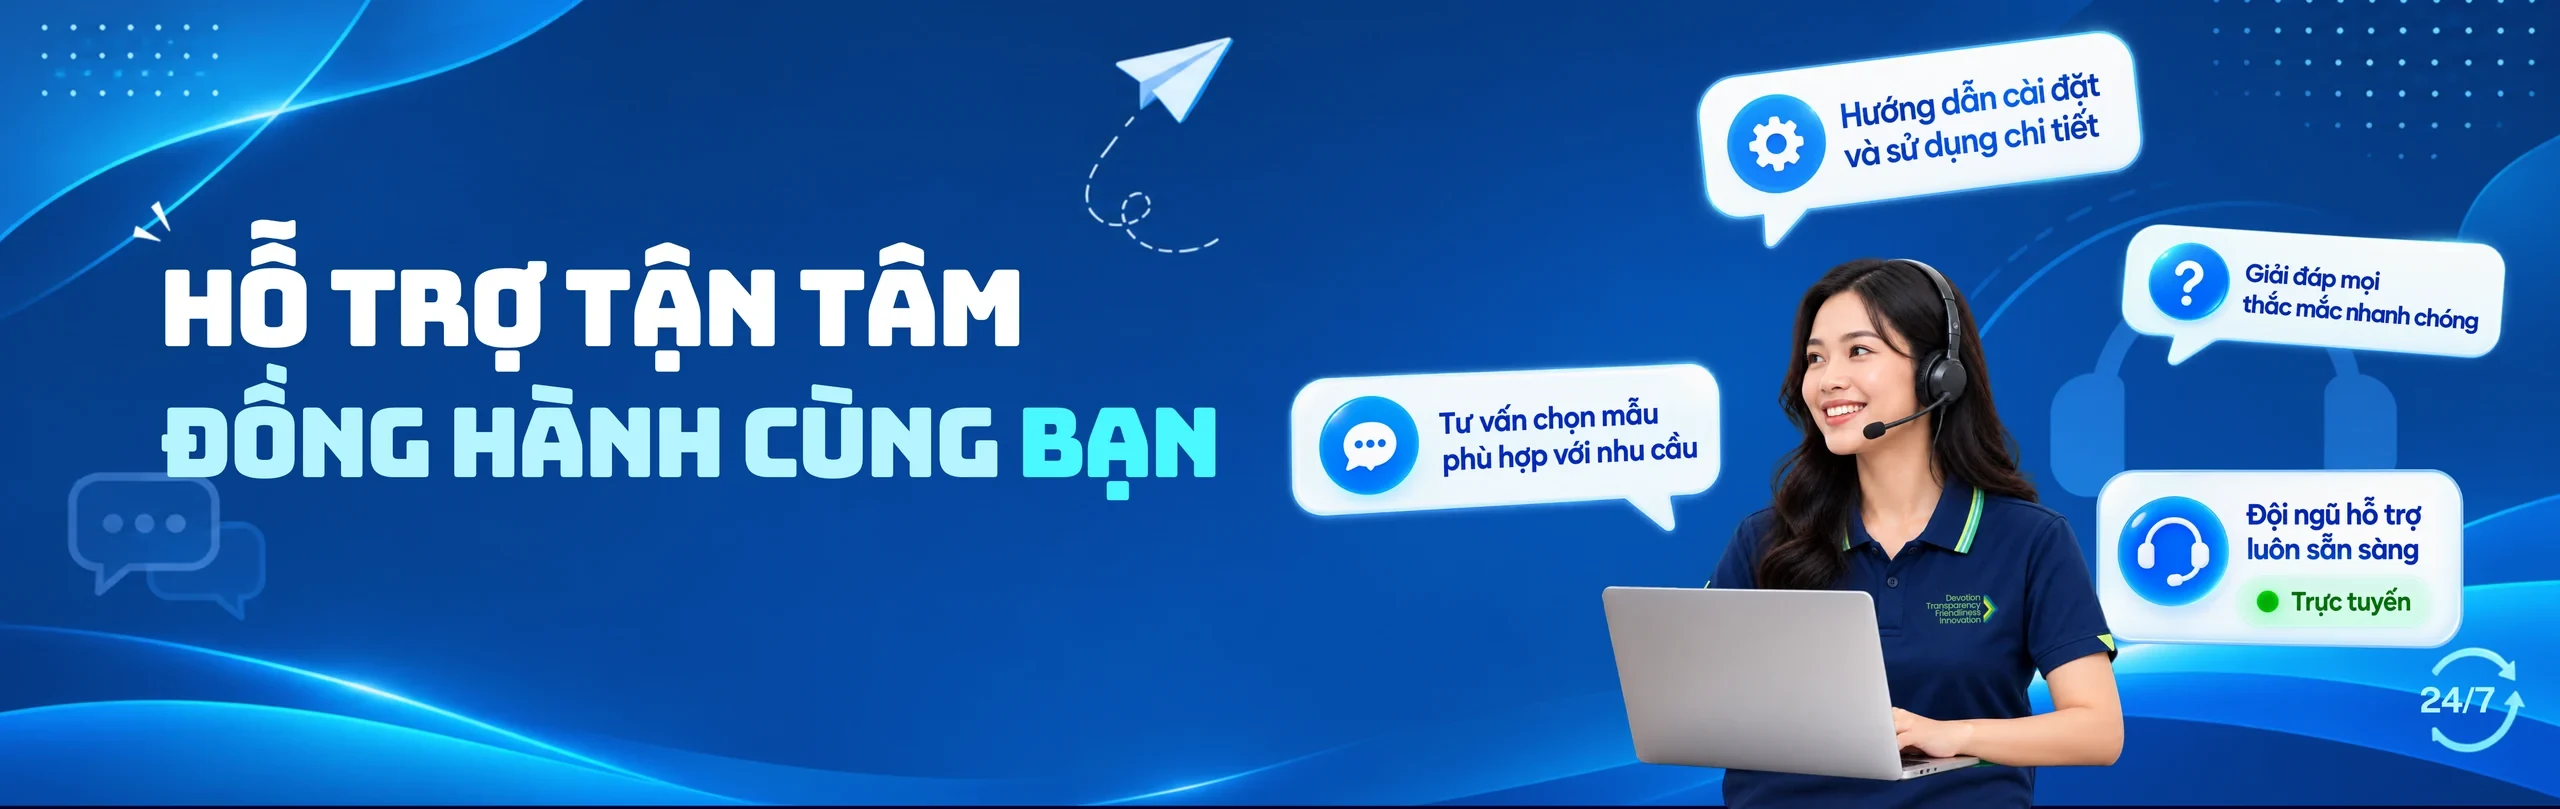
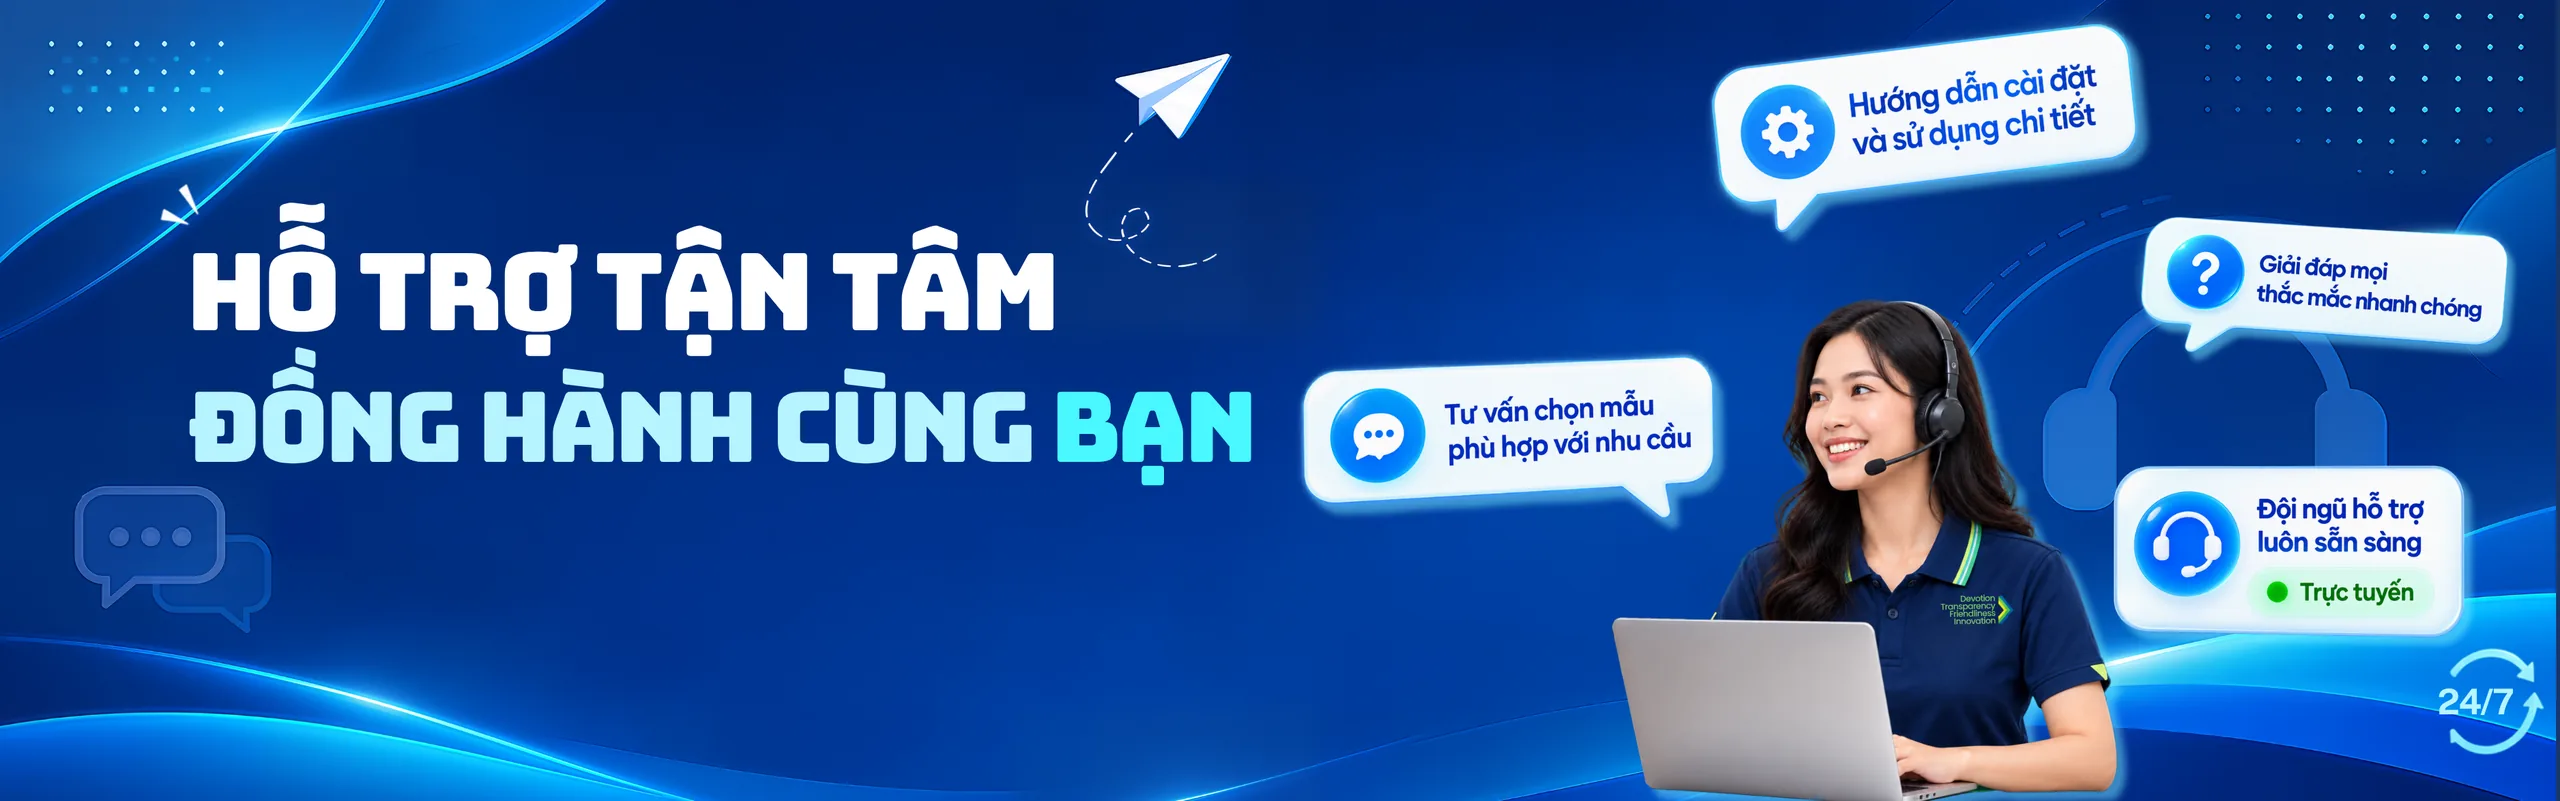
up

diff --git a/src/pages/TrangChu/DanhMucChinh.jsx b/src/pages/TrangChu/DanhMucChinh.jsx
@@ -3,12 +3,20 @@ import { loaiList } from '../../data/danhmuc';
 import mauWeb from '../../data/mauWeb';
 import { moTaDanhMuc } from '../../data/trangChu';
 
+// Số mẫu từng loại + loại nhiều mẫu nhất (gắn nhãn "Phổ biến")
+const soMau = Object.fromEntries(loaiList.map((l) => [l.id, mauWeb.filter((m) => m.loai === l.id).length]));
+const loaiPhoBien = loaiList.reduce((a, b) => (soMau[b.id] > soMau[a.id] ? b : a)).id;
+
 // 3. DANH MỤC WEBSITE
 function DanhMucChinh() {
     return (
-        <section className="py-14 ">
+        <section className="relative overflow-hidden bg-gradient-to-b from-blue-50/80 via-white to-white py-14">
+            {/* Nền: chấm lưới mờ dần + 2 vệt sáng */}
+            <div className="pointer-events-none absolute inset-0 bg-[radial-gradient(#c7d7fe_1px,transparent_1px)] [background-size:22px_22px] [mask-image:linear-gradient(to_bottom,black,transparent_75%)]" />
+            <div className="pointer-events-none absolute -left-24 top-10 h-72 w-72 rounded-full bg-cyan-200/40 blur-3xl" />
+            <div className="pointer-events-none absolute -right-24 top-40 h-80 w-80 rounded-full bg-blue-300/30 blur-3xl" />
 
-            <div className="mx-auto max-w-trang px-4 sm:px-6">
+            <div className="relative mx-auto max-w-trang px-4 sm:px-6">
                 <h2 className="mx-auto w-fit bg-gradient-to-r from-[#0b3393] via-blue-700 to-cyan-500 bg-clip-text pb-1 text-center text-3xl font-extrabold tracking-tight text-transparent sm:text-4xl">
                     Danh mục chính
                 </h2>
@@ -16,44 +24,63 @@ function DanhMucChinh() {
                     Chọn đúng loại website bạn cần, xem danh sách mẫu phù hợp ngay.
                 </p>
 
-
-                <div className="mx-auto mt-10 grid max-w-5xl grid-cols-1 gap-5 sm:grid-cols-2 lg:grid-cols-3">
+                <div className="mx-auto mt-10 grid max-w-5xl grid-cols-1 gap-6 sm:grid-cols-2 lg:grid-cols-3">
                     {loaiList.map((l) => (
+                        <Link
+                            key={l.id}
+                            to={`/mau-website?loai=${l.id}`}
+                            className="group relative flex flex-col rounded-2xl border border-slate-200 bg-white p-2.5 shadow-sm transition duration-300 hover:-translate-y-1.5 hover:border-blue-300 hover:shadow-xl hover:shadow-blue-900/10"
+                        >
+                            {l.id === loaiPhoBien && (
+                                <span className="absolute -right-2 -top-2 z-10 flex items-center gap-1 rounded-full bg-gradient-to-r from-orange-500 to-amber-400 px-2.5 py-1 text-xs font-bold text-white shadow-md">
+                                    🔥 Phổ biến
+                                </span>
+                            )}
 
-                        <div key={l.id} className="group relative">
-                            <Link
-                                to={`/mau-website?loai=${l.id}`}
-                                className="block rounded-2xl border border-slate-200 bg-white p-2.5 text-center shadow-sm transition hover:-translate-y-1 hover:border-blue-200 hover:shadow-lg"
-                            >
+                            {/* Khung trình duyệt: 3 chấm + ô địa chỉ giả */}
+                            <div className="overflow-hidden rounded-xl bg-slate-50 ring-1 ring-slate-200">
+                                <div className="flex items-center gap-1.5 border-b border-slate-200 bg-slate-100 px-3 py-2">
+                                    <span className="h-2.5 w-2.5 rounded-full bg-red-400" />
+                                    <span className="h-2.5 w-2.5 rounded-full bg-amber-400" />
+                                    <span className="h-2.5 w-2.5 rounded-full bg-emerald-400" />
+                                    <span className="ml-2 flex-1 truncate rounded-md bg-white px-2 py-0.5 text-[11px] text-slate-400 ring-1 ring-slate-200">
+                                        {l.id}.vn
+                                    </span>
+                                </div>
 
-                                <div className="overflow-hidden rounded-xl bg-slate-50 ring-1 ring-slate-100">
+                                <div className="relative overflow-hidden">
+                                    {/* Rê chuột: ảnh cuộn chậm từ đầu xuống cuối trang mẫu */}
                                     <img
                                         src={moTaDanhMuc[l.id]?.anh}
                                         alt={l.ten}
                                         loading="lazy"
-                                        className="aspect-[5/4] w-full object-cover object-top transition duration-300 group-hover:scale-105"
+                                        className="aspect-[5/4] w-full object-cover object-top transition-[object-position] duration-[2500ms] ease-in-out group-hover:object-bottom"
                                     />
+                                    {/* Nút "Xem mẫu" trượt lên khi rê chuột */}
+                                    <div className="absolute inset-x-0 bottom-0 flex justify-center bg-gradient-to-t from-slate-900/60 to-transparent pb-4 pt-10 opacity-0 transition duration-300 group-hover:opacity-100">
+                                        <span className="flex translate-y-3 items-center gap-1.5 rounded-full bg-white px-4 py-2 text-sm font-bold text-blue-700 shadow-lg transition duration-300 group-hover:translate-y-0">
+                                            Xem mẫu
+                                            <svg viewBox="0 0 24 24" className="h-4 w-4" fill="none" stroke="currentColor" strokeWidth="2.4" strokeLinecap="round" strokeLinejoin="round">
+                                                <path d="M5 12h14M13 6l6 6-6 6" />
+                                            </svg>
+                                        </span>
+                                    </div>
                                 </div>
-                                <p className="px-3 pb-2 pt-3 text-lg font-bold text-slate-900 sm:text-xl group-hover:text-blue-700">
-                                    {l.ten}
-                                </p>
-
-
-                                <p className="pb-2 text-sm text-slate-400">
-                                    {mauWeb.filter((m) => m.loai === l.id).length} mẫu
-                                </p>
-                            </Link>
-
-
-
-                            {/* Chú thích hiện khi rê chuột */}
-                            <div className="pointer-events-none absolute bottom-full left-1/2 z-20 mb-2 w-60 -translate-x-1/2 rounded-lg bg-slate-900 px-3 py-2 text-left text-xs leading-relaxed text-white opacity-0 shadow-lg transition duration-150 group-hover:opacity-100">
-                                <span className="mb-0.5 block font-semibold text-cyan-300">{l.ten}</span>
-                                {moTaDanhMuc[l.id]?.moTa}
-                                <span className="absolute left-1/2 top-full -translate-x-1/2 border-4 border-transparent border-t-slate-900" />
                             </div>
-                        </div>
 
+                            <div className="flex flex-1 flex-col px-2 pb-1.5 pt-3.5">
+                                <div className="flex items-center justify-between gap-2">
+                                    <p className="text-lg font-bold text-slate-900 transition group-hover:text-blue-700">{l.ten}</p>
+                                    <span className="shrink-0 rounded-full bg-blue-50 px-2.5 py-0.5 text-xs font-semibold text-blue-700 ring-1 ring-blue-100">
+                                        {soMau[l.id]} mẫu
+                                    </span>
+                                </div>
+                                {/* Mô tả: ô nền xanh chuyển cyan có vạch nhấn bên trái, rê chuột thì đậm lên */}
+                                <p className="mt-3 flex-1 rounded-lg border-l-4 border-blue-600 bg-gradient-to-r from-blue-100 to-cyan-50 px-3 py-2 text-sm font-medium leading-relaxed text-blue-950 transition group-hover:from-blue-200 group-hover:to-cyan-100">
+                                    {moTaDanhMuc[l.id]?.moTa}
+                                </p>
+                            </div>
+                        </Link>
                     ))}
                 </div>
 

diff --git a/src/components/sanpham/TheMau.jsx b/src/components/sanpham/TheMau.jsx
@@ -17,6 +17,7 @@ function TheMau({ mau, nho = false }) {
   const { laYeuThich, batTatYeuThich } = useYeuThich();
   const { baoThongBao } = useGioHang();
   const yeuThich = laYeuThich(mau.id);
+  const coDemo = mau.demo && mau.demo !== '#';
   // Sao = điểm có sẵn gộp với đánh giá người dùng (giống trang chi tiết)
   const { danhGiaCuaMau } = useDonHang();
   const danhGia = tongHopDanhGia(mau, danhGiaCuaMau(mau.id));
@@ -35,40 +36,60 @@ function TheMau({ mau, nho = false }) {
         dacBiet ? 'shadow-md shadow-sky-400/30' : 'shadow-sm'
       }`}
     >
-      <Link to={`/mau-website/${mau.id}`} className="relative block overflow-hidden">
-        <img
-          src={mau.anh[0]}
-          alt={mau.ten}
-          loading="lazy"
-          className="aspect-[16/10] w-full object-cover object-top transition duration-300 group-hover:scale-105"
-        />
+      <div className="relative overflow-hidden">
+        <Link to={`/mau-website/${mau.id}`} className="block">
+          <img
+            src={mau.anh[0]}
+            alt={mau.ten}
+            loading="lazy"
+            className="aspect-[16/10] w-full object-cover object-top transition duration-300 group-hover:scale-105"
+          />
 
-        {/* Nhãn góc trái: % giảm, Mới */}
-        {(khuyenMai || laMoi(mau)) && (
-          <div className={`absolute flex gap-1.5 ${nho ? 'left-2 top-2' : 'left-3 top-3'}`}>
-            {khuyenMai && (
-              <span className={`rounded-md bg-red-500 px-2 py-0.5 font-bold text-white shadow ${nho ? 'text-[10px]' : 'text-xs'}`}>
-                -{phanTramGiam(mau)}%
-              </span>
-            )}
-            {laMoi(mau) && (
-              <span className={`rounded-md bg-emerald-500 px-2 py-0.5 font-bold uppercase text-white shadow ${nho ? 'text-[10px]' : 'text-xs'}`}>Mới</span>
-            )}
-          </div>
-        )}
-
-        {/* Nhãn "Siêu sale" góc phải (hình thẻ treo giá) */}
-        {dacBiet && (
-          <div className={`pointer-events-none absolute drop-shadow-[0_4px_10px_rgba(8,20,60,0.45)] ${nho ? 'right-2 top-2 origin-top-right scale-75' : 'right-3 top-3'}`}>
-            <div className="flex items-center gap-1.5 bg-gradient-to-r from-cyan-300 to-cyan-400 py-1.5 pl-5 pr-3 [clip-path:polygon(12px_0,100%_0,100%_100%,12px_100%,0_50%)]">
-              <svg viewBox="0 0 24 24" className="h-3.5 w-3.5 fill-[#0b1f4d]" aria-hidden="true">
-                <path d="M13 2 3 14h9l-1 8 10-12h-9l1-8Z" />
-              </svg>
-              <span className="text-[11px] font-extrabold uppercase leading-none tracking-[0.18em] text-[#0b1f4d]">Siêu sale</span>
+          {/* Nhãn góc trái: % giảm, Mới */}
+          {(khuyenMai || laMoi(mau)) && (
+            <div className={`absolute flex gap-1.5 ${nho ? 'left-2 top-2' : 'left-3 top-3'}`}>
+              {khuyenMai && (
+                <span className={`rounded-md bg-red-500 px-2 py-0.5 font-bold text-white shadow ${nho ? 'text-[10px]' : 'text-xs'}`}>
+                  -{phanTramGiam(mau)}%
+                </span>
+              )}
+              {laMoi(mau) && (
+                <span className={`rounded-md bg-emerald-500 px-2 py-0.5 font-bold uppercase text-white shadow ${nho ? 'text-[10px]' : 'text-xs'}`}>Mới</span>
+              )}
             </div>
-          </div>
-        )}
-      </Link>
+          )}
+
+          {/* Nhãn "Siêu sale" góc phải (hình thẻ treo giá) */}
+          {dacBiet && (
+            <div className={`pointer-events-none absolute drop-shadow-[0_4px_10px_rgba(8,20,60,0.45)] ${nho ? 'right-2 top-2 origin-top-right scale-75' : 'right-3 top-3'}`}>
+              <div className="flex items-center gap-1.5 bg-gradient-to-r from-cyan-300 to-cyan-400 py-1.5 pl-5 pr-3 [clip-path:polygon(12px_0,100%_0,100%_100%,12px_100%,0_50%)]">
+                <svg viewBox="0 0 24 24" className="h-3.5 w-3.5 fill-[#0b1f4d]" aria-hidden="true">
+                  <path d="M13 2 3 14h9l-1 8 10-12h-9l1-8Z" />
+                </svg>
+                <span className="text-[11px] font-extrabold uppercase leading-none tracking-[0.18em] text-[#0b1f4d]">Siêu sale</span>
+              </div>
+            </div>
+          )}
+        </Link>
+
+        {/* Rê chuột lên ảnh: lớp tối + 2 nút Xem demo / Chi tiết (máy cảm ứng không có hover nên không hiện) */}
+        <div className="pointer-events-none absolute inset-0 flex items-center justify-center gap-2 bg-[#0b1f4d]/40 opacity-0 transition duration-300 group-hover:opacity-100">
+          {coDemo && (
+            <Link
+              to={`/mau-website/${mau.id}/demo`}
+              className={`translate-y-3 rounded-full bg-blue-600 font-semibold text-white shadow-lg transition duration-300 hover:bg-blue-500 group-hover:pointer-events-auto group-hover:translate-y-0 ${nho ? 'px-3 py-1.5 text-xs' : 'px-5 py-2.5 text-sm'}`}
+            >
+              Xem demo
+            </Link>
+          )}
+          <Link
+            to={`/mau-website/${mau.id}`}
+            className={`translate-y-3 rounded-full border border-white bg-white font-semibold text-slate-900 shadow-lg transition delay-75 duration-300 hover:bg-slate-100 group-hover:pointer-events-auto group-hover:translate-y-0 ${nho ? 'px-3 py-1.5 text-xs' : 'px-5 py-2.5 text-sm'}`}
+          >
+            Chi tiết
+          </Link>
+        </div>
+      </div>
       {/* Mẫu Siêu sale: thân thẻ nền xanh ngọc */}
       <div className={`flex flex-1 flex-col ${nho ? 'p-3' : 'p-4'} ${dacBiet ? 'bg-gradient-to-br from-cyan-300 to-cyan-400' : ''}`}>
         {/* Tên mẫu + nút trái tim (yêu thích) */}

diff --git a/src/pages/TaiKhoan/TongQuan.jsx b/src/pages/TaiKhoan/TongQuan.jsx
@@ -9,7 +9,7 @@ import mauWeb from '../../data/mauWeb';
 import { tinhTienDon } from '../../data/donHang';
 import { dinhDangGia, dinhDangNgay } from '../../utils/chuyenDoi';
 import MauDaMua from './MauDaMua';
-import nenLoiChao from '../../assets/nen-loi-chao.webp';
+import nenBien from '../../assets/nen-mau-noi-bat.webp';
 import bannerUuDai from '../../assets/banner-uu-dai.webp';
 
 const ICON = {
@@ -70,8 +70,8 @@ function TongQuan() {
                 {/* 1. LỜI CHÀO: nền xanh đậm có hình minh họa (tai nghe bên phải) → chữ trắng.
                     bg-[#0a2a86]: màu nền tạm trong lúc ảnh đang tải */}
                 <section
-                    className="relative overflow-hidden rounded-2xl bg-[#0a2a86] bg-cover bg-center bg-no-repeat p-6 shadow-lg shadow-blue-900/20 sm:p-10"
-                    style={{ backgroundImage: `url(${nenLoiChao})` }}
+                    className="relative overflow-hidden rounded-2xl bg-[#0a2a86] bg-cover bg-bottom bg-no-repeat p-6 shadow-lg shadow-blue-900/20 sm:p-10"
+                    style={{ backgroundImage: `url(${nenBien})` }}
                 >
                     {/* Phủ tối dần từ trái sang để chữ nổi trên các đường sáng của ảnh (điện thoại phủ đậm hơn) */}
                     <div className="pointer-events-none absolute inset-0 bg-gradient-to-r from-[#061a5c]/80 via-[#061a5c]/50 to-transparent sm:from-[#061a5c]/60 sm:via-[#061a5c]/20" aria-hidden="true" />

diff --git a/src/data/trangChu.js b/src/data/trangChu.js
@@ -10,7 +10,7 @@ import anhAdminDashboard from '../assets/danh-muc/admin-dashboard.webp';
 export const moTaDanhMuc = {
     'landing-page': {
         anh: anhLandingPage,
-        moTa: 'Chỉ 1 trang, giới thiệu nhanh và kêu gọi hành động như đăng ký, mua hàng, tải app.',
+        moTa: 'Chỉ 1 trang, giới thiệu nhanh và kêu gọi hành động như đăng ký, mua hàng, tải ứng dụng.',
     },
     'gioi-thieu': {
         anh: anhGioiThieu,
@@ -18,15 +18,15 @@ export const moTaDanhMuc = {
     },
     'ban-hang': {
         anh: anhBanHang,
-        moTa: 'Có danh sách sản phẩm, giỏ hàng và thanh toán, phù hợp shop online.',
+        moTa: 'Có danh sách sản phẩm, giỏ hàng và thanh toán, phù hợp cửa hàng bán trực tuyến.',
     },
     'tin-tuc': {
         anh: anhTinTuc,
-        moTa: 'Đăng bài viết theo chuyên mục, phù hợp trang tin, blog cá nhân hoặc doanh nghiệp.',
+        moTa: 'Đăng bài viết theo chuyên mục, phù hợp trang tin, trang viết cá nhân hoặc doanh nghiệp.',
     },
     portfolio: {
         anh: anhPortfolio,
-        moTa: 'Trưng bày dự án và kinh nghiệm, dành cho freelancer, designer, nhiếp ảnh gia.',
+        moTa: 'Trưng bày dự án và kinh nghiệm, dành cho người làm tự do, nhà thiết kế, nhiếp ảnh gia.',
     },
     'admin-dashboard': {
         anh: anhAdminDashboard,

diff --git a/src/pages/MauWeb/BannerMauWeb.jsx b/src/pages/MauWeb/BannerMauWeb.jsx
@@ -5,7 +5,7 @@ import banner2 from '../../assets/banner-mau-website1.webp';
 import banner3 from '../../assets/banner-mau-website2.webp';
 
 const bannerList = [
-    { src: banner3, alt: 'Hỗ trợ tận tâm, đồng hành cùng bạn', nut: { chu: 'Liên hệ ngay', den: '/gioi-thieu#lien-he', viTri: 'left-[6.3%] top-[66%]' } },
+    { src: banner3, alt: 'Hỗ trợ tận tâm, đồng hành cùng bạn', nut: { chu: 'Liên hệ ngay', den: '/gioi-thieu#lien-he', viTri: 'left-[7.4%] top-[66%]' } },
     // uuDai: bấm vào ảnh thì chọn sẵn ưu đãi đó trong bộ lọc bên dưới (không đổi trang)
     { src: banner1, alt: 'Siêu giảm giá mẫu website, xem các mẫu Siêu sale', uuDai: 'dacBiet' },
     { src: banner2, alt: 'Mẫu website tương thích trên mọi thiết bị' },
